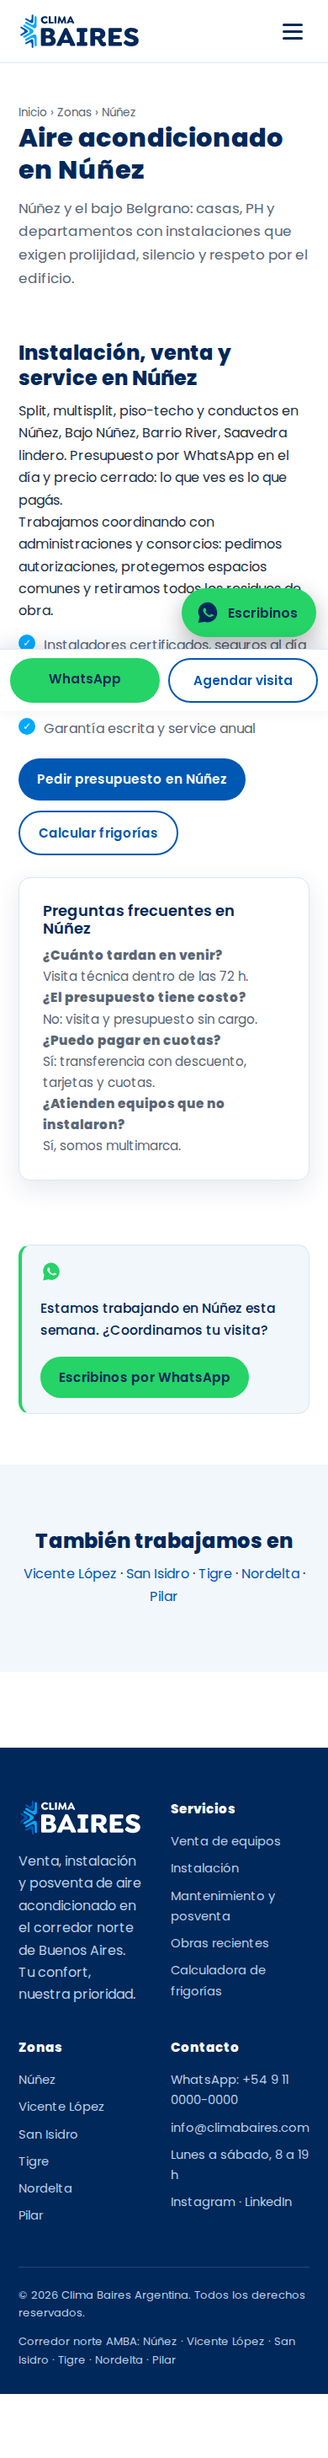
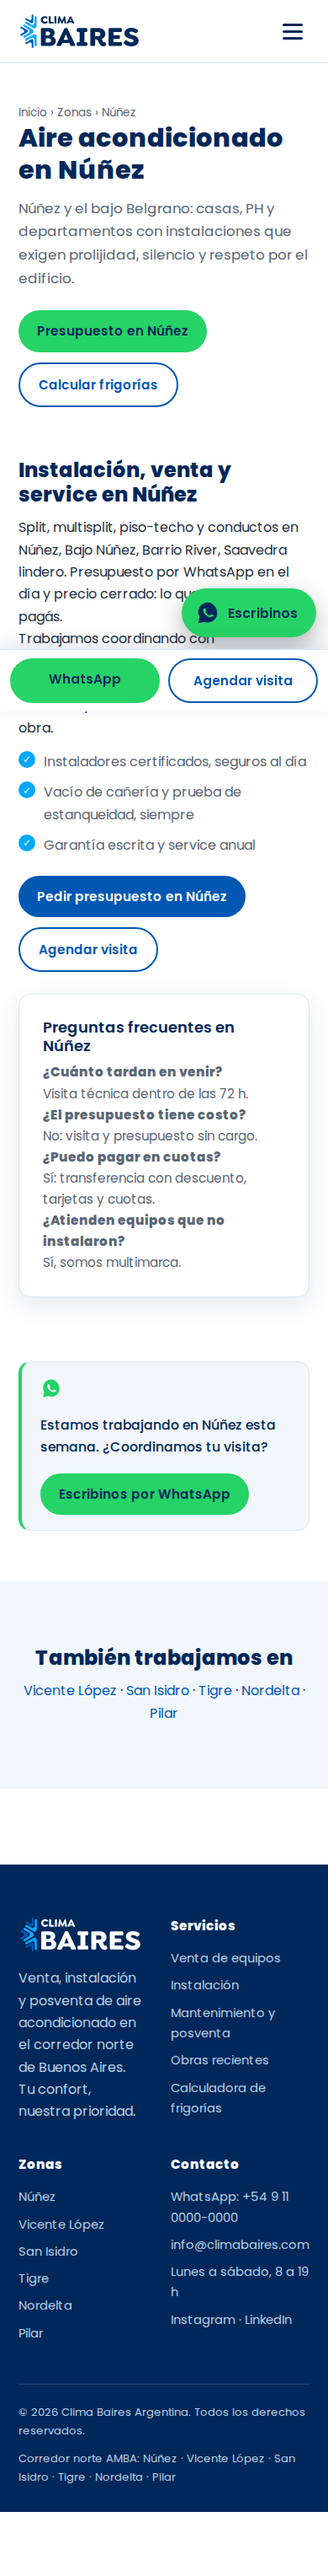
CTA above the fold en todas las páginas (requisito de landings de Ads)
Medido en móvil 390x844: las 6 páginas de zona —que SON las landings de Google
Ads— tenían el primer CTA entre 849 y 1006 px, fuera del fold; servicios,
calculadora y sobre-nosotros, entre 1415 y 1816 px.

Nuevo bloque acciones_cabecera() pegado al título de cada página. Ahora el
primer CTA aparece entre 313 y 746 px en todas. El QA lo verifica y falla si
alguna página vuelve a empujarlo fuera de la primera pantalla.

Claude-Session: https://claude.ai/code/session_01UMXhTey5vCobBk23QC6J6a

diff --git a/web/zonas/vicente-lopez.html b/web/zonas/vicente-lopez.html
@@ -44,6 +44,10 @@
     <nav class="migas"><a href="../index.html">Inicio</a> › <a href="../index.html#zonas">Zonas</a> › Vicente López</nav>
     <h1>Aire acondicionado en Vicente López</h1>
     <p class="bajada">Olivos, La Lucila, Florida y Munro: el corazón residencial consolidado de la zona norte, donde renovar equipos viejos por inverter eficientes es la obra más pedida.</p>
+    <div class="acciones-cabecera">
+      <a class="boton verde" data-wsp="Hola, estoy en Vicente López y quiero presupuesto de instalación." data-origen="hero" href="https://wa.me/5491100000000?text=Hola%2C%20estoy%20en%20Vicente%20L%C3%B3pez%20y%20quiero%20presupuesto%20de%20instalaci%C3%B3n.">Presupuesto en Vicente López</a>
+      <a class="boton fantasma" href="../calculadora-frigorias.html">Calcular frigorías</a>
+    </div>
   </div>
 </section>
 
@@ -59,8 +63,8 @@
         <li>Garantía escrita y service anual</li>
       </ul>
       <div style="margin-top:22px; display:flex; gap:12px; flex-wrap:wrap">
-        <a class="boton" data-wsp="Hola Clima Baires, estoy en Vicente López y quiero un presupuesto." data-origen="hero" href="https://wa.me/5491100000000?text=Hola%20Clima%20Baires%2C%20estoy%20en%20Vicente%20L%C3%B3pez%20y%20quiero%20un%20presupuesto.">Pedir presupuesto en Vicente López</a>
-        <a class="boton fantasma" href="../calculadora-frigorias.html">Calcular frigorías</a>
+        <a class="boton" data-wsp="Hola Clima Baires, estoy en Vicente López y quiero un presupuesto." data-origen="seccion" href="https://wa.me/5491100000000?text=Hola%20Clima%20Baires%2C%20estoy%20en%20Vicente%20L%C3%B3pez%20y%20quiero%20un%20presupuesto.">Pedir presupuesto en Vicente López</a>
+        <a class="boton fantasma" data-agenda data-origen="seccion" href="https://wa.me/5491100000000?text=Hola%20Clima%20Baires%2C%20quiero%20agendar%20una%20visita%20t%C3%A9cnica.">Agendar visita</a>
       </div>
     </div>
     <div>

diff --git a/web/zonas/san-isidro.html b/web/zonas/san-isidro.html
@@ -44,6 +44,10 @@
     <nav class="migas"><a href="../index.html">Inicio</a> › <a href="../index.html#zonas">Zonas</a> › San Isidro</nav>
     <h1>Aire acondicionado en San Isidro</h1>
     <p class="bajada">Casas grandes, jardines y arboledas: San Isidro, Martínez, Acassuso, Beccar y las Lomas piden potencia bien distribuida y equipos silenciosos.</p>
+    <div class="acciones-cabecera">
+      <a class="boton verde" data-wsp="Hola, estoy en San Isidro y quiero presupuesto de instalación." data-origen="hero" href="https://wa.me/5491100000000?text=Hola%2C%20estoy%20en%20San%20Isidro%20y%20quiero%20presupuesto%20de%20instalaci%C3%B3n.">Presupuesto en San Isidro</a>
+      <a class="boton fantasma" href="../calculadora-frigorias.html">Calcular frigorías</a>
+    </div>
   </div>
 </section>
 
@@ -59,8 +63,8 @@
         <li>Garantía escrita y service anual</li>
       </ul>
       <div style="margin-top:22px; display:flex; gap:12px; flex-wrap:wrap">
-        <a class="boton" data-wsp="Hola Clima Baires, estoy en San Isidro y quiero un presupuesto." data-origen="hero" href="https://wa.me/5491100000000?text=Hola%20Clima%20Baires%2C%20estoy%20en%20San%20Isidro%20y%20quiero%20un%20presupuesto.">Pedir presupuesto en San Isidro</a>
-        <a class="boton fantasma" href="../calculadora-frigorias.html">Calcular frigorías</a>
+        <a class="boton" data-wsp="Hola Clima Baires, estoy en San Isidro y quiero un presupuesto." data-origen="seccion" href="https://wa.me/5491100000000?text=Hola%20Clima%20Baires%2C%20estoy%20en%20San%20Isidro%20y%20quiero%20un%20presupuesto.">Pedir presupuesto en San Isidro</a>
+        <a class="boton fantasma" data-agenda data-origen="seccion" href="https://wa.me/5491100000000?text=Hola%20Clima%20Baires%2C%20quiero%20agendar%20una%20visita%20t%C3%A9cnica.">Agendar visita</a>
       </div>
     </div>
     <div>

diff --git a/web/zonas/nordelta.html b/web/zonas/nordelta.html
@@ -44,6 +44,10 @@
     <nav class="migas"><a href="../index.html">Inicio</a> › <a href="../index.html#zonas">Zonas</a> › Nordelta</nav>
     <h1>Aire acondicionado en Nordelta</h1>
     <p class="bajada">La ciudad-pueblo más grande del país merece un servicio a su altura: ingreso con seguros al día, trabajo prolijo y posventa real, barrio por barrio.</p>
+    <div class="acciones-cabecera">
+      <a class="boton verde" data-wsp="Hola, estoy en Nordelta y quiero presupuesto de instalación." data-origen="hero" href="https://wa.me/5491100000000?text=Hola%2C%20estoy%20en%20Nordelta%20y%20quiero%20presupuesto%20de%20instalaci%C3%B3n.">Presupuesto en Nordelta</a>
+      <a class="boton fantasma" href="../calculadora-frigorias.html">Calcular frigorías</a>
+    </div>
   </div>
 </section>
 
@@ -59,8 +63,8 @@
         <li>Garantía escrita y service anual</li>
       </ul>
       <div style="margin-top:22px; display:flex; gap:12px; flex-wrap:wrap">
-        <a class="boton" data-wsp="Hola Clima Baires, estoy en Nordelta y quiero un presupuesto." data-origen="hero" href="https://wa.me/5491100000000?text=Hola%20Clima%20Baires%2C%20estoy%20en%20Nordelta%20y%20quiero%20un%20presupuesto.">Pedir presupuesto en Nordelta</a>
-        <a class="boton fantasma" href="../calculadora-frigorias.html">Calcular frigorías</a>
+        <a class="boton" data-wsp="Hola Clima Baires, estoy en Nordelta y quiero un presupuesto." data-origen="seccion" href="https://wa.me/5491100000000?text=Hola%20Clima%20Baires%2C%20estoy%20en%20Nordelta%20y%20quiero%20un%20presupuesto.">Pedir presupuesto en Nordelta</a>
+        <a class="boton fantasma" data-agenda data-origen="seccion" href="https://wa.me/5491100000000?text=Hola%20Clima%20Baires%2C%20quiero%20agendar%20una%20visita%20t%C3%A9cnica.">Agendar visita</a>
       </div>
     </div>
     <div>

diff --git a/web/zonas/nunez.html b/web/zonas/nunez.html
@@ -44,6 +44,10 @@
     <nav class="migas"><a href="../index.html">Inicio</a> › <a href="../index.html#zonas">Zonas</a> › Núñez</nav>
     <h1>Aire acondicionado en Núñez</h1>
     <p class="bajada">Núñez y el bajo Belgrano: casas, PH y departamentos con instalaciones que exigen prolijidad, silencio y respeto por el edificio.</p>
+    <div class="acciones-cabecera">
+      <a class="boton verde" data-wsp="Hola, estoy en Núñez y quiero presupuesto de instalación." data-origen="hero" href="https://wa.me/5491100000000?text=Hola%2C%20estoy%20en%20N%C3%BA%C3%B1ez%20y%20quiero%20presupuesto%20de%20instalaci%C3%B3n.">Presupuesto en Núñez</a>
+      <a class="boton fantasma" href="../calculadora-frigorias.html">Calcular frigorías</a>
+    </div>
   </div>
 </section>
 
@@ -59,8 +63,8 @@
         <li>Garantía escrita y service anual</li>
       </ul>
       <div style="margin-top:22px; display:flex; gap:12px; flex-wrap:wrap">
-        <a class="boton" data-wsp="Hola Clima Baires, estoy en Núñez y quiero un presupuesto." data-origen="hero" href="https://wa.me/5491100000000?text=Hola%20Clima%20Baires%2C%20estoy%20en%20N%C3%BA%C3%B1ez%20y%20quiero%20un%20presupuesto.">Pedir presupuesto en Núñez</a>
-        <a class="boton fantasma" href="../calculadora-frigorias.html">Calcular frigorías</a>
+        <a class="boton" data-wsp="Hola Clima Baires, estoy en Núñez y quiero un presupuesto." data-origen="seccion" href="https://wa.me/5491100000000?text=Hola%20Clima%20Baires%2C%20estoy%20en%20N%C3%BA%C3%B1ez%20y%20quiero%20un%20presupuesto.">Pedir presupuesto en Núñez</a>
+        <a class="boton fantasma" data-agenda data-origen="seccion" href="https://wa.me/5491100000000?text=Hola%20Clima%20Baires%2C%20quiero%20agendar%20una%20visita%20t%C3%A9cnica.">Agendar visita</a>
       </div>
     </div>
     <div>

diff --git a/web/zonas/tigre.html b/web/zonas/tigre.html
@@ -44,6 +44,10 @@
     <nav class="migas"><a href="../index.html">Inicio</a> › <a href="../index.html#zonas">Zonas</a> › Tigre</nav>
     <h1>Aire acondicionado en Tigre</h1>
     <p class="bajada">De Rincón de Milberg a los barrios náuticos: Tigre combina obra nueva acelerada y casas frente al agua donde la salinidad y la humedad exigen instalar bien desde el día uno.</p>
+    <div class="acciones-cabecera">
+      <a class="boton verde" data-wsp="Hola, estoy en Tigre y quiero presupuesto de instalación." data-origen="hero" href="https://wa.me/5491100000000?text=Hola%2C%20estoy%20en%20Tigre%20y%20quiero%20presupuesto%20de%20instalaci%C3%B3n.">Presupuesto en Tigre</a>
+      <a class="boton fantasma" href="../calculadora-frigorias.html">Calcular frigorías</a>
+    </div>
   </div>
 </section>
 
@@ -59,8 +63,8 @@
         <li>Garantía escrita y service anual</li>
       </ul>
       <div style="margin-top:22px; display:flex; gap:12px; flex-wrap:wrap">
-        <a class="boton" data-wsp="Hola Clima Baires, estoy en Tigre y quiero un presupuesto." data-origen="hero" href="https://wa.me/5491100000000?text=Hola%20Clima%20Baires%2C%20estoy%20en%20Tigre%20y%20quiero%20un%20presupuesto.">Pedir presupuesto en Tigre</a>
-        <a class="boton fantasma" href="../calculadora-frigorias.html">Calcular frigorías</a>
+        <a class="boton" data-wsp="Hola Clima Baires, estoy en Tigre y quiero un presupuesto." data-origen="seccion" href="https://wa.me/5491100000000?text=Hola%20Clima%20Baires%2C%20estoy%20en%20Tigre%20y%20quiero%20un%20presupuesto.">Pedir presupuesto en Tigre</a>
+        <a class="boton fantasma" data-agenda data-origen="seccion" href="https://wa.me/5491100000000?text=Hola%20Clima%20Baires%2C%20quiero%20agendar%20una%20visita%20t%C3%A9cnica.">Agendar visita</a>
       </div>
     </div>
     <div>

diff --git a/web/zonas/pilar.html b/web/zonas/pilar.html
@@ -44,6 +44,10 @@
     <nav class="migas"><a href="../index.html">Inicio</a> › <a href="../index.html#zonas">Zonas</a> › Pilar</nav>
     <h1>Aire acondicionado en Pilar</h1>
     <p class="bajada">Más de 300 countries y barrios cerrados: Pilar es la capital argentina de la casa con parque, y cada casa nueva necesita climatización bien proyectada.</p>
+    <div class="acciones-cabecera">
+      <a class="boton verde" data-wsp="Hola, estoy en Pilar y quiero presupuesto de instalación." data-origen="hero" href="https://wa.me/5491100000000?text=Hola%2C%20estoy%20en%20Pilar%20y%20quiero%20presupuesto%20de%20instalaci%C3%B3n.">Presupuesto en Pilar</a>
+      <a class="boton fantasma" href="../calculadora-frigorias.html">Calcular frigorías</a>
+    </div>
   </div>
 </section>
 
@@ -59,8 +63,8 @@
         <li>Garantía escrita y service anual</li>
       </ul>
       <div style="margin-top:22px; display:flex; gap:12px; flex-wrap:wrap">
-        <a class="boton" data-wsp="Hola Clima Baires, estoy en Pilar y quiero un presupuesto." data-origen="hero" href="https://wa.me/5491100000000?text=Hola%20Clima%20Baires%2C%20estoy%20en%20Pilar%20y%20quiero%20un%20presupuesto.">Pedir presupuesto en Pilar</a>
-        <a class="boton fantasma" href="../calculadora-frigorias.html">Calcular frigorías</a>
+        <a class="boton" data-wsp="Hola Clima Baires, estoy en Pilar y quiero un presupuesto." data-origen="seccion" href="https://wa.me/5491100000000?text=Hola%20Clima%20Baires%2C%20estoy%20en%20Pilar%20y%20quiero%20un%20presupuesto.">Pedir presupuesto en Pilar</a>
+        <a class="boton fantasma" data-agenda data-origen="seccion" href="https://wa.me/5491100000000?text=Hola%20Clima%20Baires%2C%20quiero%20agendar%20una%20visita%20t%C3%A9cnica.">Agendar visita</a>
       </div>
     </div>
     <div>

diff --git a/web/calculadora-frigorias.html b/web/calculadora-frigorias.html
@@ -44,6 +44,10 @@
     <nav class="migas"><a href="index.html">Inicio</a> › Calculadora de frigorías</nav>
     <h1>Calculadora de frigorías</h1>
     <p class="bajada">Completá los datos y en 30 segundos sabés qué equipo necesitás.</p>
+    <div class="acciones-cabecera">
+      <a class="boton verde" data-wsp="Hola Clima Baires, quiero saber qué equipo necesito para mi ambiente." data-origen="hero" href="https://wa.me/5491100000000?text=Hola%20Clima%20Baires%2C%20quiero%20saber%20qu%C3%A9%20equipo%20necesito%20para%20mi%20ambiente.">Que lo calculen ustedes</a>
+      <a class="boton fantasma" data-agenda data-origen="hero" href="https://wa.me/5491100000000?text=Hola%20Clima%20Baires%2C%20quiero%20agendar%20una%20visita%20t%C3%A9cnica.">Agendar visita</a>
+    </div>
   </div>
 </section>
 

diff --git a/web/sobre-nosotros.html b/web/sobre-nosotros.html
@@ -44,6 +44,10 @@
     <nav class="migas"><a href="index.html">Inicio</a> › Sobre nosotros</nav>
     <h1>De la Costa del Sol al corredor norte</h1>
     <p class="bajada">Nacimos en Málaga instalando climatización. Hoy traemos ese estándar a Buenos Aires.</p>
+    <div class="acciones-cabecera">
+      <a class="boton verde" data-wsp="Hola Clima Baires, quiero coordinar una visita técnica." data-origen="hero" href="https://wa.me/5491100000000?text=Hola%20Clima%20Baires%2C%20quiero%20coordinar%20una%20visita%20t%C3%A9cnica.">Hablar con nosotros</a>
+      <a class="boton fantasma" href="obras.html">Ver obras</a>
+    </div>
   </div>
 </section>
 

diff --git a/web/servicios.html b/web/servicios.html
@@ -44,6 +44,10 @@
     <nav class="migas"><a href="index.html">Inicio</a> › Servicios</nav>
     <h1>Servicios de climatización</h1>
     <p class="bajada">Un solo proveedor, de la compra al mantenimiento.</p>
+    <div class="acciones-cabecera">
+      <a class="boton verde" data-wsp="Hola Clima Baires, quiero un presupuesto." data-origen="hero" href="https://wa.me/5491100000000?text=Hola%20Clima%20Baires%2C%20quiero%20un%20presupuesto.">Pedir presupuesto</a>
+      <a class="boton fantasma" href="calculadora-frigorias.html">Calcular frigorías</a>
+    </div>
   </div>
 </section>
 

diff --git a/web/assets/css/styles.css b/web/assets/css/styles.css
@@ -194,6 +194,8 @@ h3 { font-size: 1.12rem; font-weight: 600; }
 
 .cabecera-pagina { padding: 30px 0 50px; }
 .cabecera-pagina p.bajada { color: var(--gris); max-width: 700px; margin-top: 14px; font-size: 1.05rem; }
+/* CTA pegado al título: en móvil tiene que entrar en el fold (landings de Ads) */
+.acciones-cabecera { display: flex; gap: 12px; flex-wrap: wrap; margin-top: 24px; }
 
 /* ---------- CTA / banda ---------- */
 .banda-cta {

diff --git a/web/tools/generar.py b/web/tools/generar.py
@@ -362,6 +362,16 @@ WSP_SVG = ('<svg viewBox="0 0 32 32" aria-hidden="true"><path d="M16 3C9.4 3 4 8
            'c-.2.2-.3.4-.1.7.2.3.9 1.5 2 2.4 1.4 1.2 2.5 1.6 2.9 1.8.3.2.5.1.7-.1l1.1-1.3c.2-.3.5-.2.8-.1l2.3 1.1c.3.2.5.2.6.4 0 .1 0 .8-.3 1.5z"/></svg>')
 
 
+def acciones_cabecera(mensaje, primario='Pedir presupuesto', p='', secundario=None):
+    """CTA inmediatamente bajo el título: en móvil tiene que entrar en el fold
+    (las páginas de zona son las landings de Google Ads)."""
+    segundo = secundario or f'<a class="boton fantasma" href="{p}calculadora-frigorias.html">Calcular frigorías</a>'
+    return f'''<div class="acciones-cabecera">
+      <a class="boton verde" data-wsp="{mensaje}" data-origen="hero" href="#">{primario}</a>
+      {segundo}
+    </div>'''
+
+
 def cinta_cta(titulo, mensaje, boton='Escribinos por WhatsApp'):
     """Cinta compacta de conversión: ninguna franja larga de scroll sin CTA."""
     return f'''
@@ -416,6 +426,7 @@ def pagina_servicios():
     <nav class="migas"><a href="index.html">Inicio</a> › Servicios</nav>
     <h1>Servicios de climatización</h1>
     <p class="bajada">Un solo proveedor, de la compra al mantenimiento.</p>
+    {acciones_cabecera('Hola Clima Baires, quiero un presupuesto.')}
   </div>
 </section>
 
@@ -467,6 +478,7 @@ def pagina_calculadora():
     <nav class="migas"><a href="index.html">Inicio</a> › Calculadora de frigorías</nav>
     <h1>Calculadora de frigorías</h1>
     <p class="bajada">Completá los datos y en 30 segundos sabés qué equipo necesitás.</p>
+    {acciones_cabecera('Hola Clima Baires, quiero saber qué equipo necesito para mi ambiente.', 'Que lo calculen ustedes', secundario='<a class="boton fantasma" data-agenda data-origen="hero" href="#">Agendar visita</a>')}
   </div>
 </section>
 
@@ -680,6 +692,7 @@ def pagina_zona(slug, nombre, partido, intro, barrios, especial):
     <nav class="migas"><a href="../index.html">Inicio</a> › <a href="../index.html#zonas">Zonas</a> › {nombre}</nav>
     <h1>Aire acondicionado en {nombre}</h1>
     <p class="bajada">{intro}</p>
+    {acciones_cabecera(f'Hola, estoy en {nombre} y quiero presupuesto de instalación.', f'Presupuesto en {nombre}', '../')}
   </div>
 </section>
 
@@ -695,8 +708,8 @@ def pagina_zona(slug, nombre, partido, intro, barrios, especial):
         <li>Garantía escrita y service anual</li>
       </ul>
       <div style="margin-top:22px; display:flex; gap:12px; flex-wrap:wrap">
-        <a class="boton" data-wsp="Hola Clima Baires, estoy en {nombre} y quiero un presupuesto." data-origen="hero" href="#">Pedir presupuesto en {nombre}</a>
-        <a class="boton fantasma" href="../calculadora-frigorias.html">Calcular frigorías</a>
+        <a class="boton" data-wsp="Hola Clima Baires, estoy en {nombre} y quiero un presupuesto." data-origen="seccion" href="#">Pedir presupuesto en {nombre}</a>
+        <a class="boton fantasma" data-agenda data-origen="seccion" href="#">Agendar visita</a>
       </div>
     </div>
     <div>
@@ -735,6 +748,7 @@ def pagina_nosotros():
     <nav class="migas"><a href="index.html">Inicio</a> › Sobre nosotros</nav>
     <h1>De la Costa del Sol al corredor norte</h1>
     <p class="bajada">Nacimos en Málaga instalando climatización. Hoy traemos ese estándar a Buenos Aires.</p>
+    {acciones_cabecera('Hola Clima Baires, quiero coordinar una visita técnica.', 'Hablar con nosotros', secundario='<a class="boton fantasma" href="obras.html">Ver obras</a>')}
   </div>
 </section>
 
